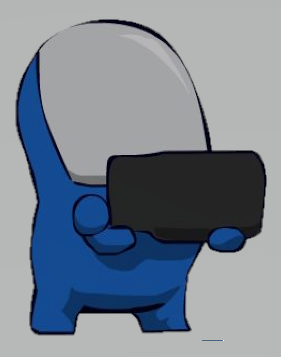
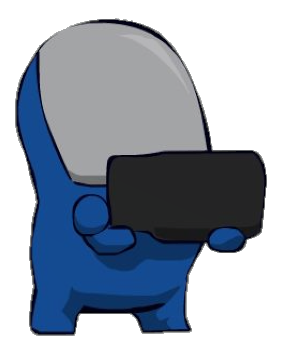
Minor fixes, removed background from MarineStance image

diff --git a/src/TFServer/tcpmanager.h b/src/TFServer/tcpmanager.h
@@ -18,10 +18,9 @@ public:
     ~TCPManager();
     QString getAddress();
     QString getPort();
-    TCPManager &operator<<(stuff*);
-    TCPManager *operator<<(QString);
+    TCPManager &operator<<(stuff* obj);
+    TCPManager &operator<<(QString* s);
     void flush();
-    friend TCPManager& operator<<(TCPManager &tcp, const stuff &s);
 private slots:
     void newClient();
 private:

diff --git a/src/TFServer/tcpmanager.cpp b/src/TFServer/tcpmanager.cpp
@@ -127,12 +127,12 @@ void TCPManager::flush(){
         client->flush();
 }
 
-TCPManager *TCPManager::operator<<(QString s){
+TCPManager &TCPManager::operator<<(QString* s){
     for(QTcpSocket* client: clients){
-        client->write(s.toUtf8());
+        client->write(s->toUtf8());
     }
 
-    return this;
+    return *this;
 }
 
 TCPManager &TCPManager::operator<<(stuff *s){

diff --git a/src/TFServer/map.cpp b/src/TFServer/map.cpp
@@ -25,7 +25,7 @@ QString Map::streaming(){
 }
 
 void Map::send(TCPManager* manager){
-    *manager << stream;
+    *manager << &stream;
 }
 
 bool Map::isWall(int x, int y){
